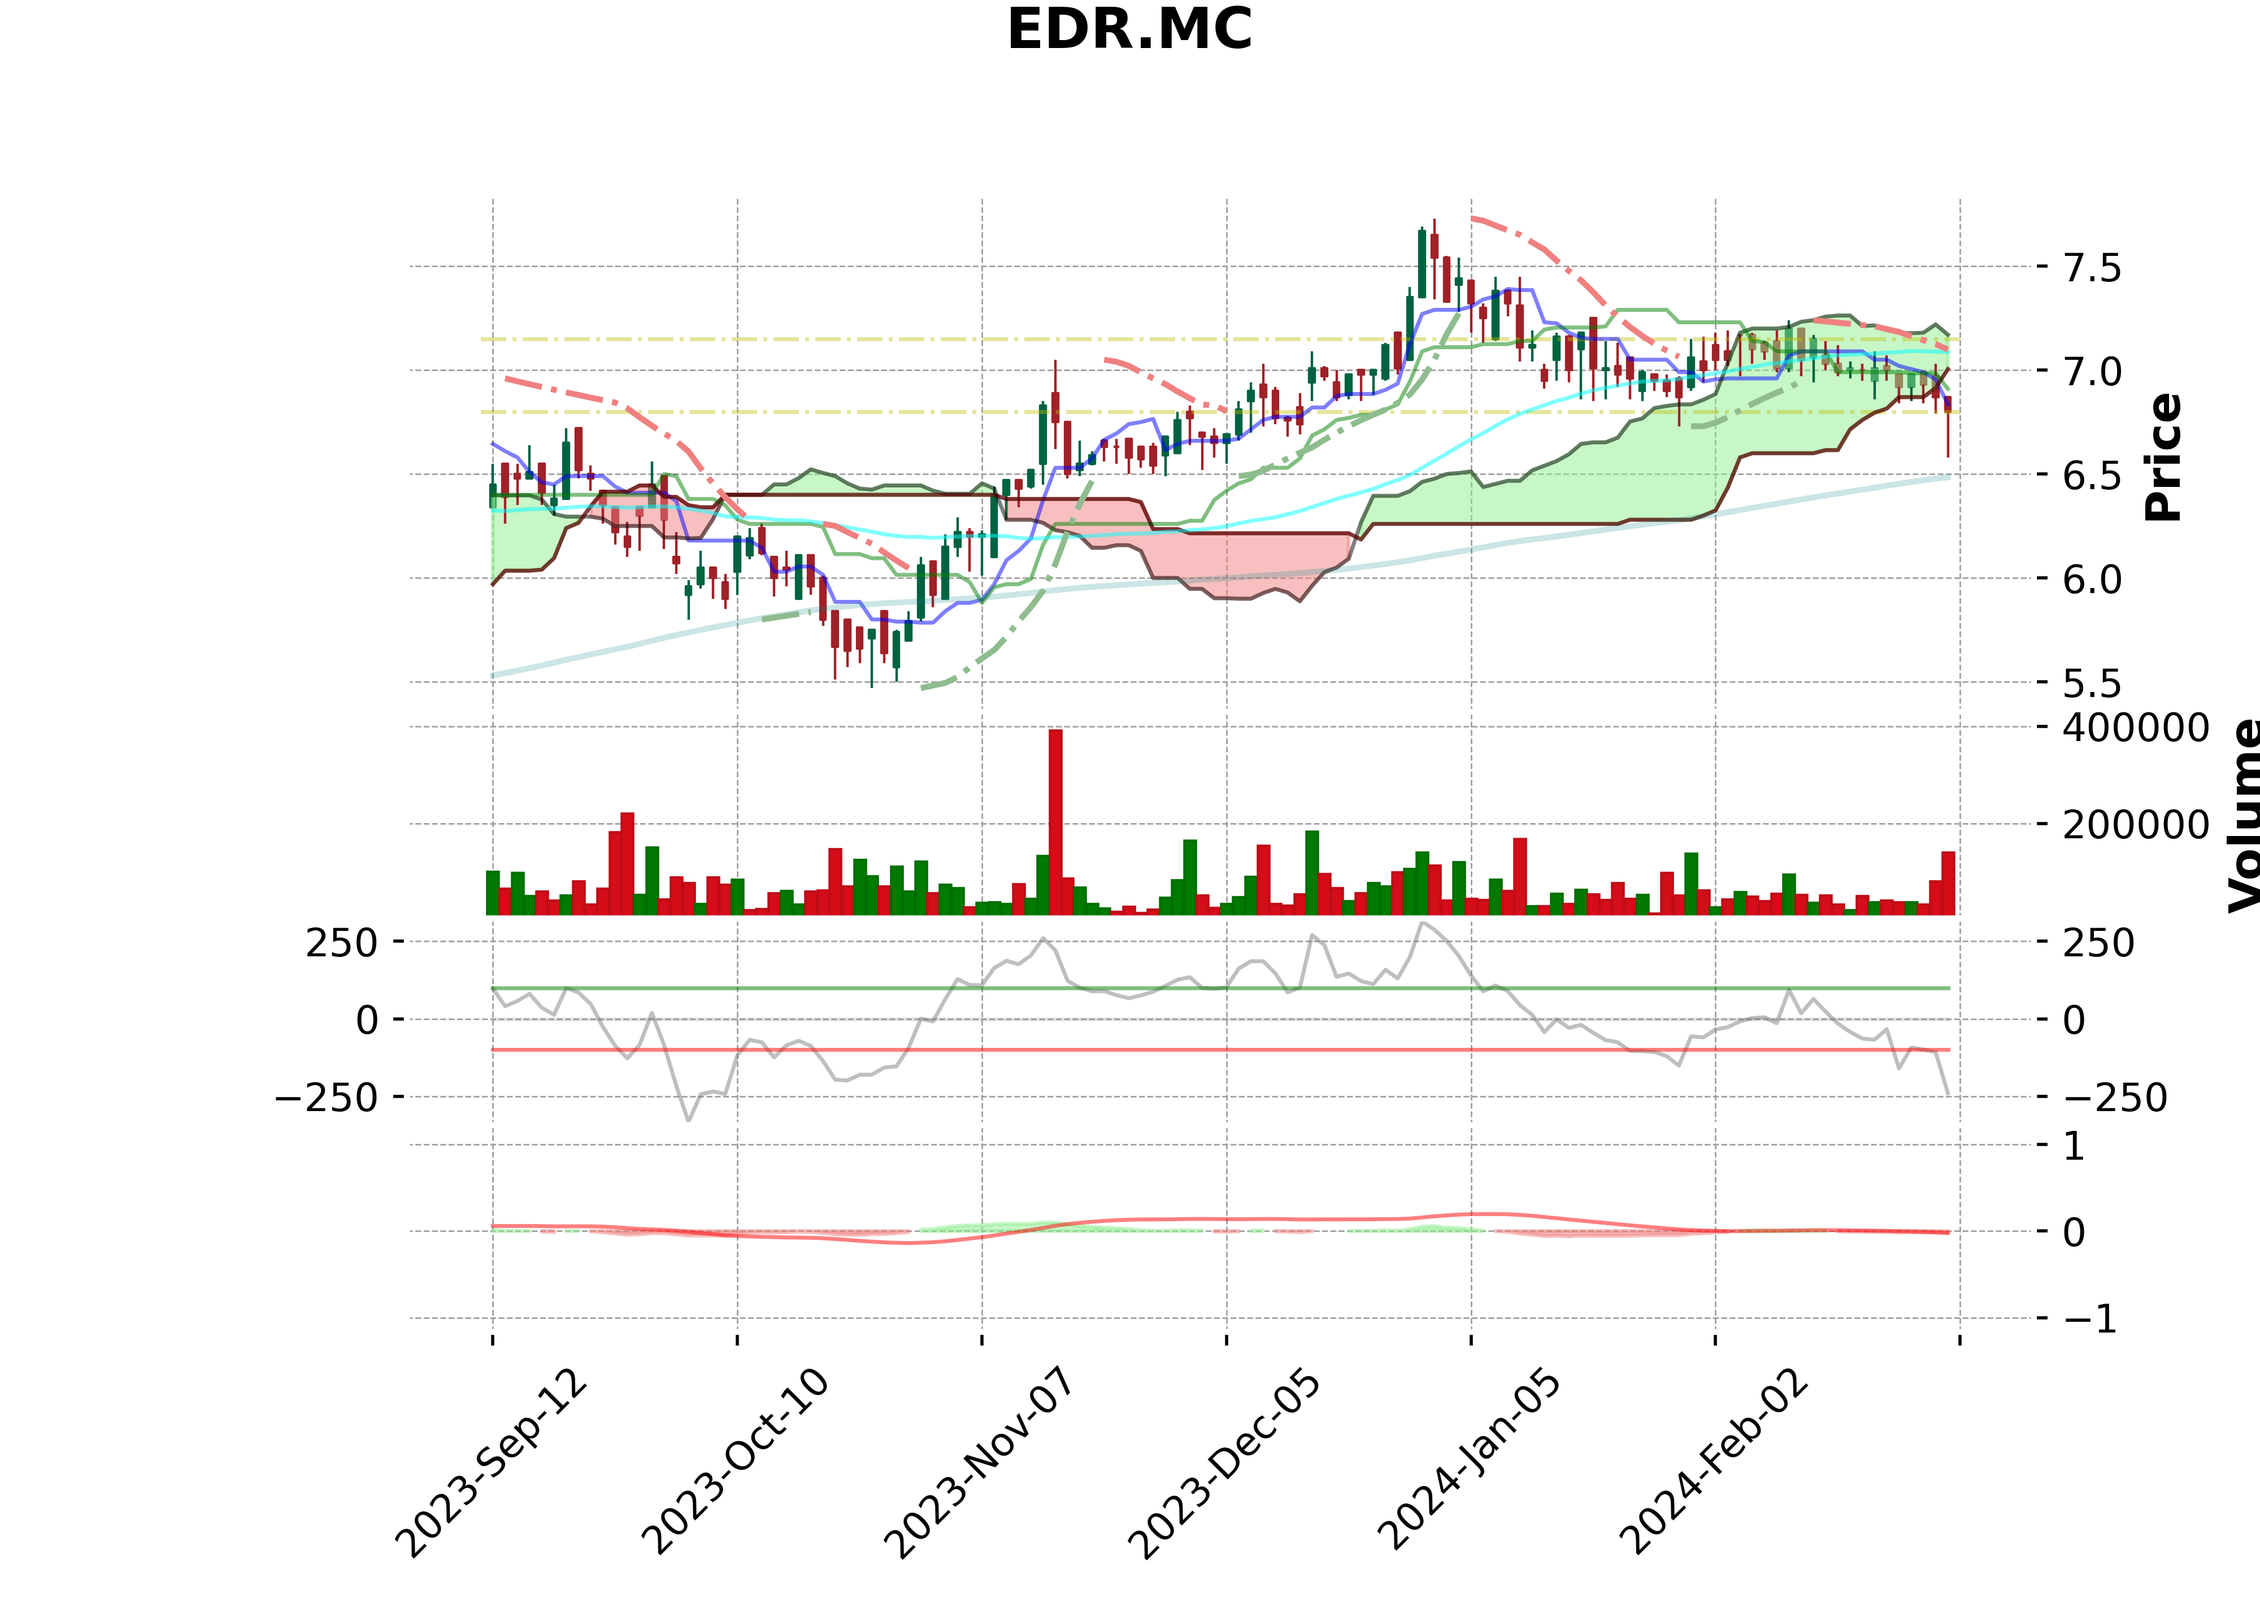
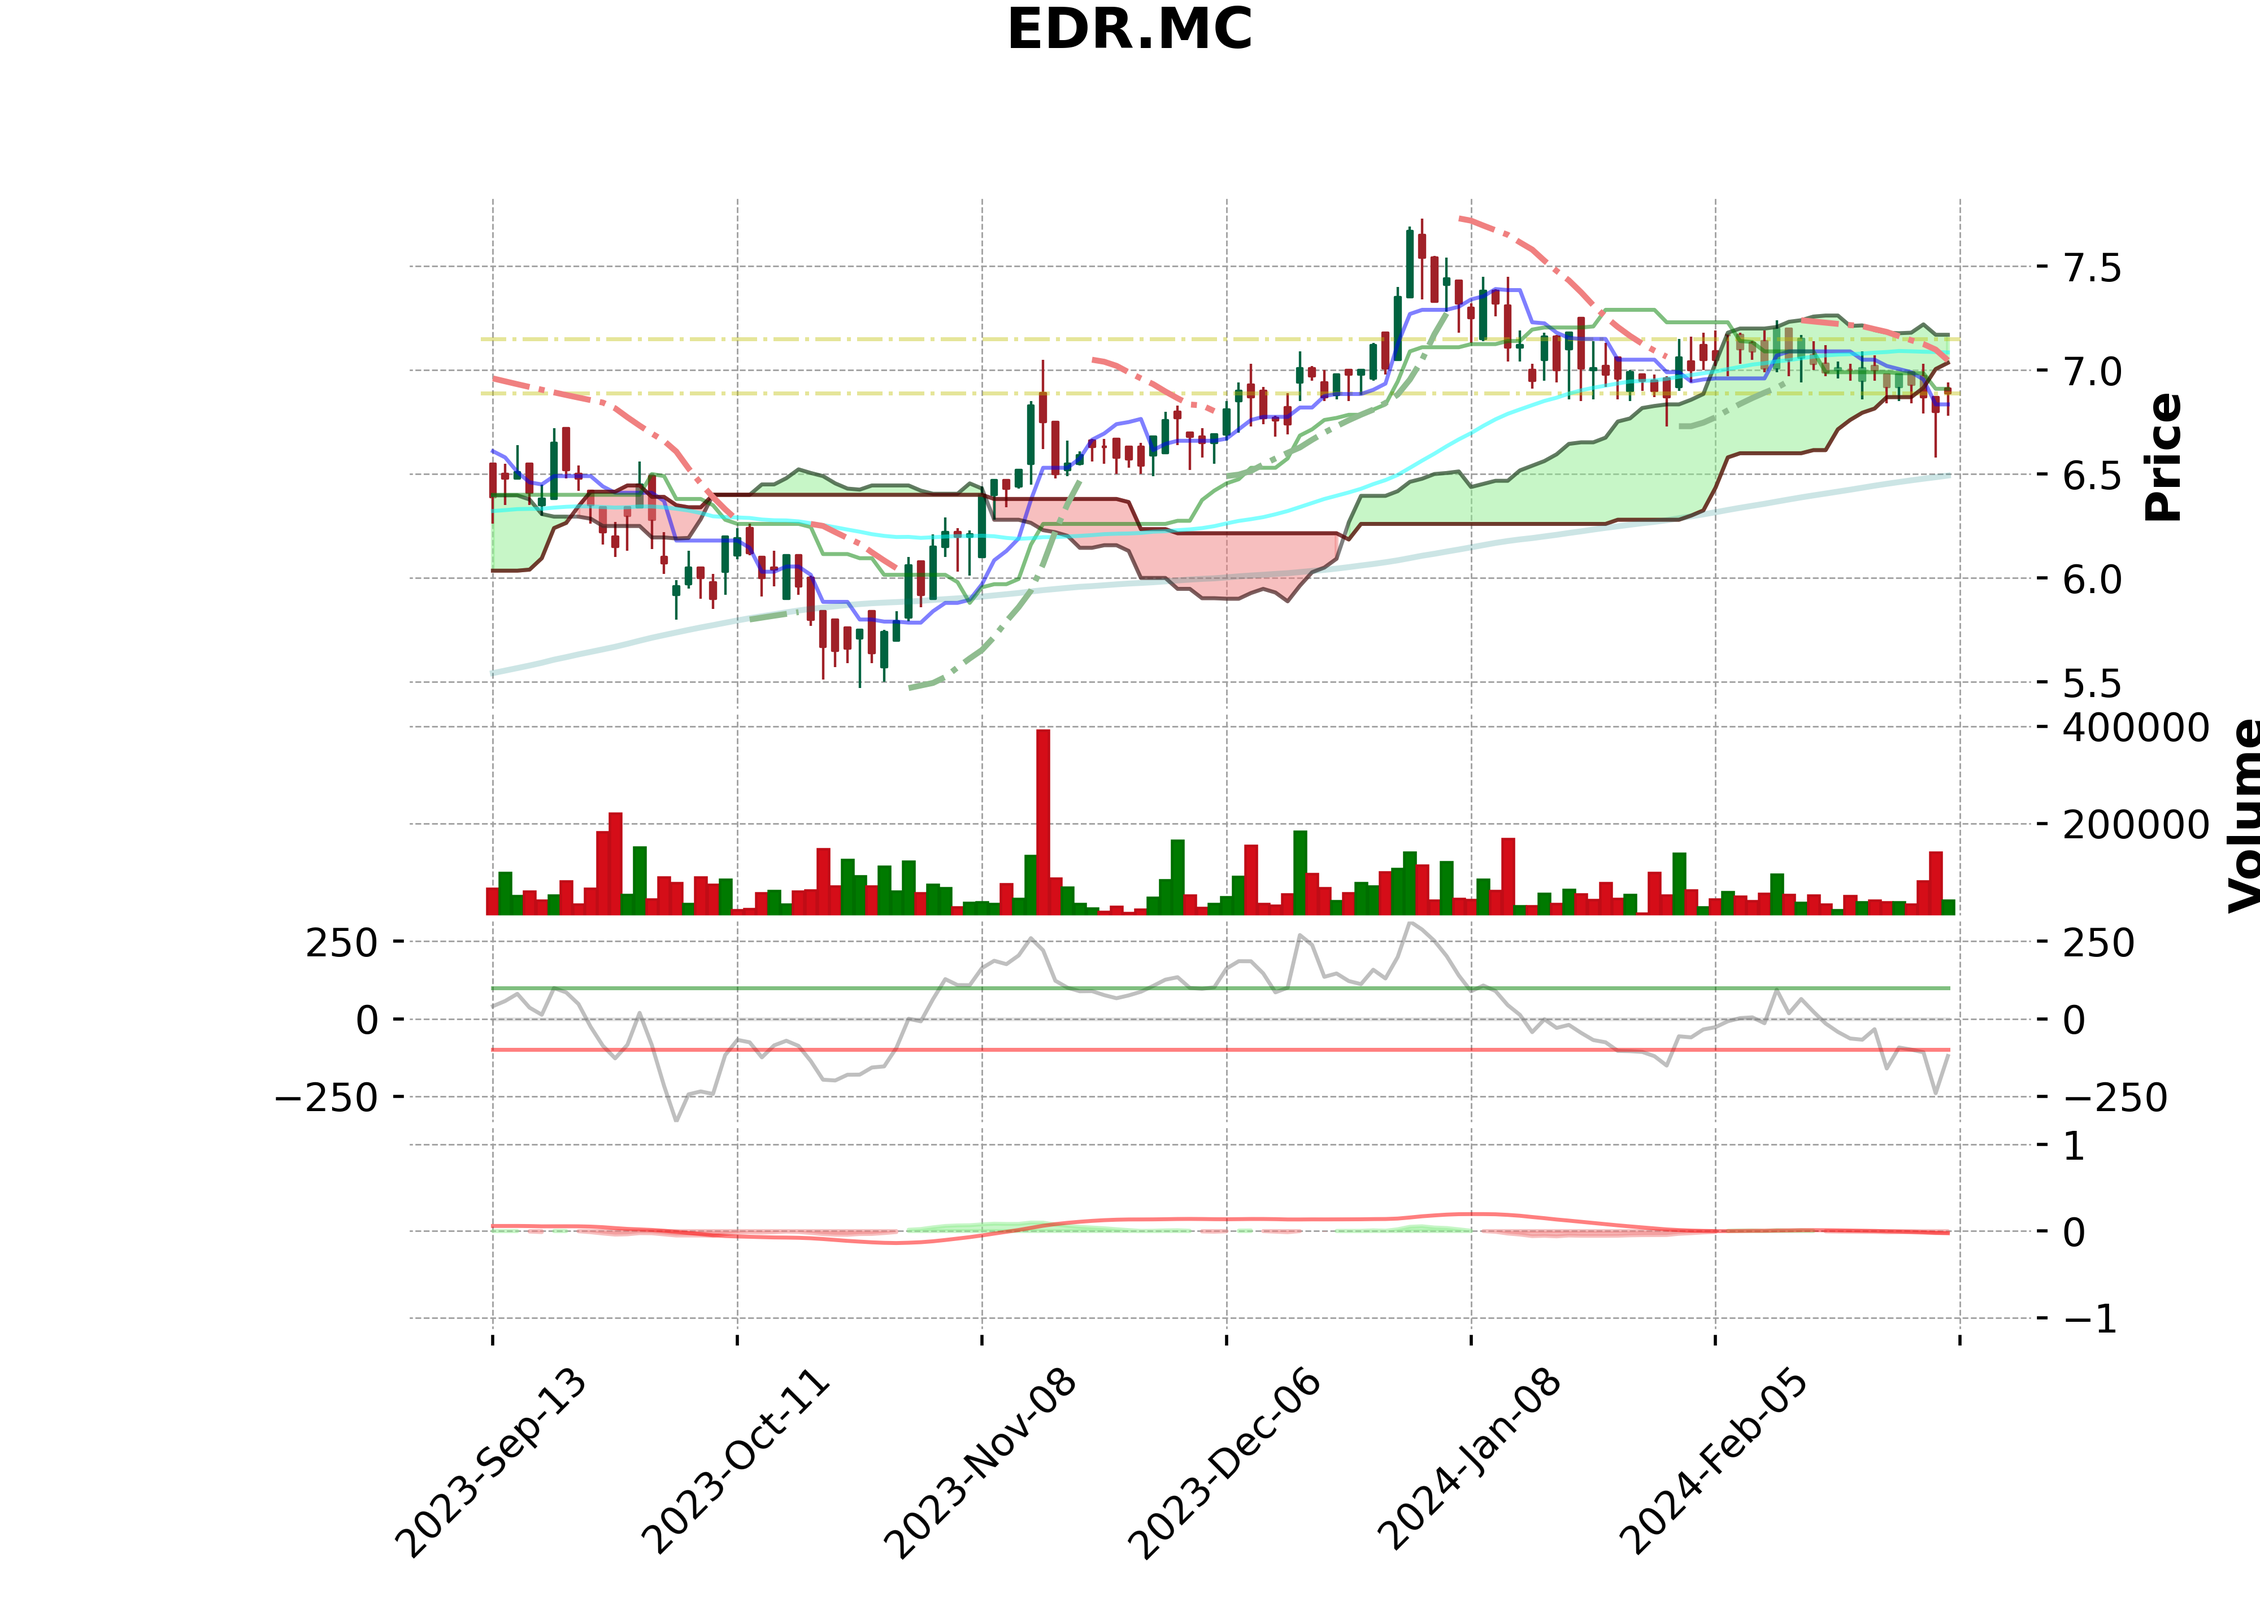
2024-03-02 Mercado Continuo

diff --git a/_posts/2024-03-02-mercado-continuo.md b/_posts/2024-03-02-mercado-continuo.md
@@ -1,12 +1,12 @@
 ---
-title: Mercado Continuo 
+title: Mercado Continuo
 author: jubapa
-date: 2024-02-29 17:10:00 +0800
-categories: [Blogging, First]
+date: 2024-03-02 17:10:00 +0800
+categories: [Blogging, Finance, MC]
 tags: [finance]
 ---
 
-## 2024-02-29
+## 2024-03-02
 
 Checking ['ANA.MC', 'ANE.MC', 'ACX.MC', 'ACS.MC', 'ADZ.MC', 'AEDAS.MC', 'AENA.MC', 'AIR.MC', 'AI.MC', 'ALNT.MC', 'ALM.MC', 'AMS.MC', 'AMP.MC', 'EAT.MC', 'APAM.MC', 'APPS.MC', 'MTS.MC', 'ARM.MC', 'A3M.MC', 'ATRY.MC', 'ADX.MC', 'AZK.MC', 'BBVA.MC', 'SAB.MC', 'SAN.MC', 'BKT.MC', 'BKY.MC', 'RIO.MC', 'BAIN.MC', 'CABK.MC', 'CLNX.MC', 'CEV.MC', 'CIE.MC', 'CLEO.MC', 'CCEP.MC', 'CAF.MC', 'ALB.MC', 'CAM.MC', 'OLE.MC', 'DESA.MC', 'DIA.MC', 'MDF.MC', 'EBRO.MC', 'ENER.MC', 'EDR.MC', 'ENO.MC', 'ENG.MC', 'ENC.MC', 'ELE.MC', 'ECR.MC', 'FAE.MC', 'FER.MC', 'FDR.MC', 'FCC.MC', 'GAM.MC', 'GEST.MC', 'DOM.MC', 'GRE.MC', 'GCO.MC', 'CBAV.MC', 'GSJ.MC', 'EZE.MC', 'IAG.MC', 'IBE.MC', 'IBG.MC', 'ITX.MC', 'IDR.MC', 'COL.MC', 'ISUR.MC', 'ROVI.MC', 'RJF.MC', 'LRE.MC', 'LIB.MC', 'LDA.MC', 'LGT.MC', 'LOG.MC', 'MAP.MC', 'MEL.MC', 'MRL.MC', 'MVC.MC', 'MFEA.MC', 'MCM.MC', 'MTB.MC', 'NTGY.MC', 'NTH.MC', 'HOME.MC', 'NHH.MC', 'NEA.MC', 'NXT.MC', 'NYE.MC', 'OHLA.MC', 'OPDE.MC', 'ORY.MC', 'PVA.MC', 'PHM.MC', 'PRM.MC', 'PRS.MC', 'CASH.MC', 'PSG.MC', 'RLIA.MC', 'RED.MC', 'R4.MC', 'REN.MC', 'REP.MC', 'SCYR.MC', 'ISE.MC', 'SLR.MC', 'SOL.MC', 'SQRL.MC', 'TLGO.MC', 'TRE.MC', 'TEF.MC', 'TUB.MC', 'TRG.MC', 'UNI.MC', 'UBS.MC', 'VID.MC', 'VIS.MC']
 
@@ -17,9 +17,7 @@ Checking ['ANA.MC', 'ANE.MC', 'ACX.MC', 'ACS.MC', 'ADZ.MC', 'AEDAS.MC', 'AENA.MC
 
 | Date       |   Close |   Percentage |
 |:-----------|--------:|-------------:|
-| 2024-02-15 |    7.03 |   nan        |
-| 2024-02-16 |    6.99 |    -0.572252 |
-| 2024-02-19 |    7.01 |     0.285313 |
+| 2024-02-19 |    7.01 |   nan        |
 | 2024-02-20 |    7    |    -0.14286  |
 | 2024-02-21 |    7.01 |     0.142657 |
 | 2024-02-22 |    7    |    -0.14286  |
@@ -28,58 +26,36 @@ Checking ['ANA.MC', 'ANE.MC', 'ACX.MC', 'ACS.MC', 'ADZ.MC', 'AEDAS.MC', 'AENA.MC
 | 2024-02-27 |    6.93 |    -0.721503 |
 | 2024-02-28 |    6.87 |    -0.873362 |
 | 2024-02-29 |    6.8  |    -1.02941  |
+| 2024-03-01 |    6.89 |     1.30624  |
 
 ![EDR.MC](/assets/img/stocks/EDR.png){: w="700" h="400" .w-75 .normal}
 _EDR.MC_
 
-### STOCK GCO.MC
-<https://finance.yahoo.com/quote/GCO.MC>
+### STOCK FER.MC
+<https://finance.yahoo.com/quote/FER.MC>
 
 | Date       |   Close |   Percentage |
 |:-----------|--------:|-------------:|
-| 2024-02-15 |   33.15 |   nan        |
-| 2024-02-16 |   33.2  |     0.1506   |
-| 2024-02-19 |   33.25 |     0.150374 |
-| 2024-02-20 |   33.55 |     0.894186 |
-| 2024-02-21 |   33.75 |     0.592595 |
-| 2024-02-22 |   34.05 |     0.881055 |
-| 2024-02-23 |   33.95 |    -0.294546 |
-| 2024-02-26 |   34    |     0.147057 |
-| 2024-02-27 |   33.5  |    -1.49254  |
-| 2024-02-28 |   33.65 |     0.44577  |
-| 2024-02-29 |   33.7  |     0.148366 |
+| 2024-02-19 |   35.16 |   nan        |
+| 2024-02-20 |   35.5  |     0.957747 |
+| 2024-02-21 |   35.45 |    -0.141042 |
+| 2024-02-22 |   35.4  |    -0.141241 |
+| 2024-02-23 |   34.9  |    -1.43266  |
+| 2024-02-26 |   35    |     0.28571  |
+| 2024-02-27 |   34.75 |    -0.719424 |
+| 2024-02-28 |   34.45 |    -0.870825 |
+| 2024-02-29 |   34.65 |     0.577203 |
+| 2024-03-01 |   34.5  |    -0.434787 |
 
-![GCO.MC](/assets/img/stocks/GCO.png){: w="700" h="400" .w-75 .normal}
-_GCO.MC_
-
-### STOCK LDA.MC
-<https://finance.yahoo.com/quote/LDA.MC>
-
-| Date       |   Close |   Percentage |
-|:-----------|--------:|-------------:|
-| 2024-02-15 |   0.932 |   nan        |
-| 2024-02-16 |   0.934 |     0.214136 |
-| 2024-02-19 |   0.923 |    -1.19177  |
-| 2024-02-20 |   0.921 |    -0.217152 |
-| 2024-02-21 |   0.922 |     0.108458 |
-| 2024-02-22 |   0.918 |    -0.435731 |
-| 2024-02-23 |   0.917 |    -0.10905  |
-| 2024-02-26 |   0.923 |     0.650052 |
-| 2024-02-27 |   0.914 |    -0.984683 |
-| 2024-02-28 |   0.926 |     1.2959   |
-| 2024-02-29 |   0.916 |    -1.0917   |
-
-![LDA.MC](/assets/img/stocks/LDA.png){: w="700" h="400" .w-75 .normal}
-_LDA.MC_
+![FER.MC](/assets/img/stocks/FER.png){: w="700" h="400" .w-75 .normal}
+_FER.MC_
 
 ### STOCK MAP.MC
 <https://finance.yahoo.com/quote/MAP.MC>
 
 | Date       |   Close |   Percentage |
 |:-----------|--------:|-------------:|
-| 2024-02-15 |   1.95  |  nan         |
-| 2024-02-16 |   1.946 |   -0.205553  |
-| 2024-02-19 |   1.948 |    0.102668  |
+| 2024-02-19 |   1.948 |  nan         |
 | 2024-02-20 |   1.95  |    0.102569  |
 | 2024-02-21 |   1.962 |    0.611619  |
 | 2024-02-22 |   1.977 |    0.758725  |
@@ -88,6 +64,7 @@ _LDA.MC_
 | 2024-02-27 |   1.965 |   -0.254453  |
 | 2024-02-28 |   1.962 |   -0.152906  |
 | 2024-02-29 |   1.959 |   -0.15314   |
+| 2024-03-01 |   1.974 |    0.759878  |
 
 ![MAP.MC](/assets/img/stocks/MAP.png){: w="700" h="400" .w-75 .normal}
 _MAP.MC_
@@ -97,9 +74,7 @@ _MAP.MC_
 
 | Date       |   Close |   Percentage |
 |:-----------|--------:|-------------:|
-| 2024-02-15 |    89.3 |   nan        |
-| 2024-02-16 |    90   |     0.777774 |
-| 2024-02-19 |    90.1 |     0.110986 |
+| 2024-02-19 |    90.1 |   nan        |
 | 2024-02-20 |    90.4 |     0.331862 |
 | 2024-02-21 |    90.9 |     0.550055 |
 | 2024-02-22 |    92.1 |     1.30293  |
@@ -108,7 +83,7 @@ _MAP.MC_
 | 2024-02-27 |    93.9 |     0.319492 |
 | 2024-02-28 |    94.1 |     0.212537 |
 | 2024-02-29 |    94.9 |     0.842996 |
+| 2024-03-01 |    95.3 |     0.419729 |
 
 ![VID.MC](/assets/img/stocks/VID.png){: w="700" h="400" .w-75 .normal}
 _VID.MC_
-
